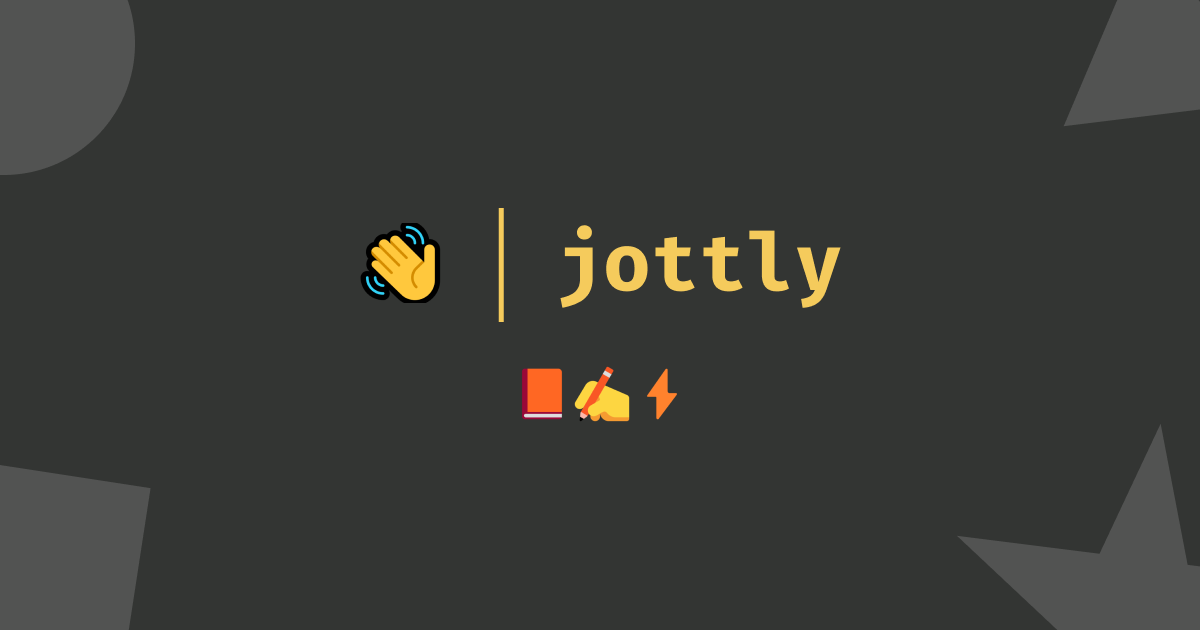
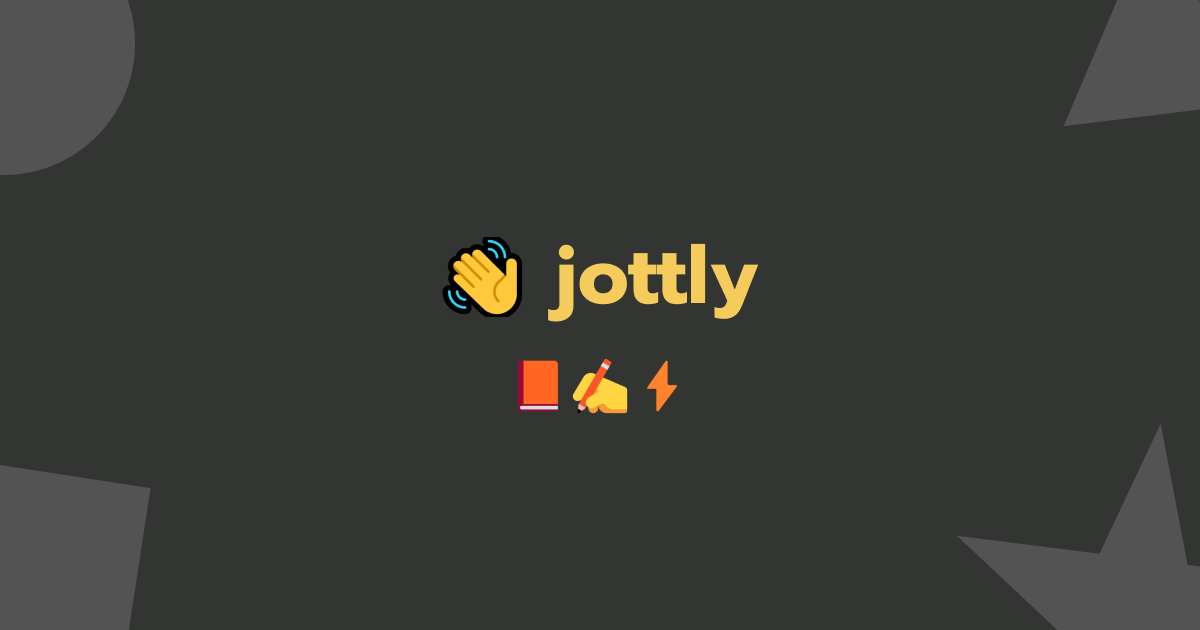
small fixes

Changed region(s): [[0.2775, 0.3317, 0.7092, 0.5127], [0.4317, 0.573, 0.5858, 0.6937]]

diff --git a/src/app/user/logEdit.html b/src/app/user/logEdit.html
@@ -13,9 +13,15 @@
     <meta name="twitter:card" content="summary_large_image" />
     <meta name="twitter:image" content="/public/ogimg.png" />
     <link rel="shortcut icon" href="/public/favicon.ico" type="image/x-icon" />
+    <link rel="preconnect" href="https://fonts.googleapis.com" />
+    <link rel="preconnect" href="https://fonts.gstatic.com" crossorigin />
+    <link
+      href="https://fonts.googleapis.com/css2?family=Prompt:wght@400;500;600;700;800&display=swap"
+      rel="stylesheet"
+    />
     <link rel="stylesheet" href="../../css/global.css" />
     <link rel="stylesheet" href="../../css/newLog.css" />
-    <title>jottly : new note</title>
+    <title>jottly : update note</title>
   </head>
   <body>
     <header class="navbar">

diff --git a/src/app/signup.html b/src/app/signup.html
@@ -13,6 +13,13 @@
     <meta name="twitter:card" content="summary_large_image" />
     <meta name="twitter:image" content="/public/ogimg.png" />
     <link rel="shortcut icon" href="/public/favicon.ico" type="image/x-icon" />
+    <link rel="shortcut icon" href="/public/favicon.ico" type="image/x-icon" />
+    <link rel="preconnect" href="https://fonts.googleapis.com" />
+    <link rel="preconnect" href="https://fonts.gstatic.com" crossorigin />
+    <link
+      href="https://fonts.googleapis.com/css2?family=Prompt:wght@400;500;600;700;800&display=swap"
+      rel="stylesheet"
+    />
     <link rel="stylesheet" href="/css/global.css" />
     <link rel="stylesheet" href="/css/signup.css" />
     <title>jottly : signup</title>

diff --git a/src/app/login.html b/src/app/login.html
@@ -13,6 +13,13 @@
     <meta name="twitter:card" content="summary_large_image" />
     <meta name="twitter:image" content="/public/ogimg.png" />
     <link rel="shortcut icon" href="/public/favicon.ico" type="image/x-icon" />
+    <link rel="shortcut icon" href="/public/favicon.ico" type="image/x-icon" />
+    <link rel="preconnect" href="https://fonts.googleapis.com" />
+    <link rel="preconnect" href="https://fonts.gstatic.com" crossorigin />
+    <link
+      href="https://fonts.googleapis.com/css2?family=Prompt:wght@400;500;600;700;800&display=swap"
+      rel="stylesheet"
+    />
     <link rel="stylesheet" href="/css/global.css" />
     <link rel="stylesheet" href="/css/login.css" />
 

diff --git a/src/app/not_found.html b/src/app/not_found.html
@@ -4,6 +4,13 @@
     <meta charset="UTF-8" />
     <meta http-equiv="X-UA-Compatible" content="IE=edge" />
     <meta name="viewport" content="width=device-width, initial-scale=1.0" />
+    <link rel="shortcut icon" href="/public/favicon.ico" type="image/x-icon" />
+    <link rel="preconnect" href="https://fonts.googleapis.com" />
+    <link rel="preconnect" href="https://fonts.gstatic.com" crossorigin />
+    <link
+      href="https://fonts.googleapis.com/css2?family=Prompt:wght@400;500;600;700;800&display=swap"
+      rel="stylesheet"
+    />
     <link rel="stylesheet" href="/css/global.css" />
     <link rel="stylesheet" href="/css/not_found.css" />
     <title>jottly : login</title>

diff --git a/src/app/user/newLog.html b/src/app/user/newLog.html
@@ -13,6 +13,12 @@
     <meta name="twitter:card" content="summary_large_image" />
     <meta name="twitter:image" content="/public/ogimg.png" />
     <link rel="shortcut icon" href="/public/favicon.ico" type="image/x-icon" />
+    <link rel="preconnect" href="https://fonts.googleapis.com" />
+    <link rel="preconnect" href="https://fonts.gstatic.com" crossorigin />
+    <link
+      href="https://fonts.googleapis.com/css2?family=Prompt:wght@400;500;600;700;800&display=swap"
+      rel="stylesheet"
+    />
     <link rel="stylesheet" href="../../css/global.css" />
     <link rel="stylesheet" href="../../css/newLog.css" />
     <title>jottly : new note</title>

diff --git a/src/app/user/settings.html b/src/app/user/settings.html
@@ -13,6 +13,12 @@
     <meta name="twitter:card" content="summary_large_image" />
     <meta name="twitter:image" content="/public/ogimg.png" />
     <link rel="shortcut icon" href="/public/favicon.ico" type="image/x-icon" />
+    <link rel="preconnect" href="https://fonts.googleapis.com" />
+    <link rel="preconnect" href="https://fonts.gstatic.com" crossorigin />
+    <link
+      href="https://fonts.googleapis.com/css2?family=Prompt:wght@400;500;600;700;800&display=swap"
+      rel="stylesheet"
+    />
     <link rel="stylesheet" href="../css/global.css" />
     <link rel="stylesheet" href="../css/settings.css" />
     <title>jottly : settings</title>

diff --git a/src/app/user/log.html b/src/app/user/log.html
@@ -13,6 +13,12 @@
     <meta name="twitter:card" content="summary_large_image" />
     <meta name="twitter:image" content="/public/ogimg.png" />
     <link rel="shortcut icon" href="/public/favicon.ico" type="image/x-icon" />
+    <link rel="preconnect" href="https://fonts.googleapis.com" />
+    <link rel="preconnect" href="https://fonts.gstatic.com" crossorigin />
+    <link
+      href="https://fonts.googleapis.com/css2?family=Prompt:wght@400;500;600;700;800&display=swap"
+      rel="stylesheet"
+    />
     <link rel="stylesheet" href="../../css/global.css" />
     <link rel="stylesheet" href="../../css/log.css" />
     <title>jottly : log</title>

diff --git a/src/app/index.html b/src/app/index.html
@@ -13,6 +13,12 @@
     <meta name="twitter:card" content="summary_large_image" />
     <meta name="twitter:image" content="/public/ogimg.png" />
     <link rel="shortcut icon" href="/public/favicon.ico" type="image/x-icon" />
+    <link rel="preconnect" href="https://fonts.googleapis.com" />
+    <link rel="preconnect" href="https://fonts.gstatic.com" crossorigin />
+    <link
+      href="https://fonts.googleapis.com/css2?family=Prompt:wght@400;500;600;700;800&display=swap"
+      rel="stylesheet"
+    />
     <link rel="stylesheet" href="/css/global.css" />
     <title>jottly</title>
   </head>

diff --git a/src/app/user/home.html b/src/app/user/home.html
@@ -20,6 +20,12 @@
       crossorigin="anonymous"
       referrerpolicy="no-referrer"
     />
+    <link rel="preconnect" href="https://fonts.googleapis.com" />
+    <link rel="preconnect" href="https://fonts.gstatic.com" crossorigin />
+    <link
+      href="https://fonts.googleapis.com/css2?family=Prompt:wght@400;500;600;700;800&display=swap"
+      rel="stylesheet"
+    />
     <link rel="stylesheet" href="../css/global.css" />
     <link rel="stylesheet" href="../css/home.css" />
     <title>jottly : dashboard</title>

diff --git a/src/app/user/allLogs.html b/src/app/user/allLogs.html
@@ -20,6 +20,12 @@
       crossorigin="anonymous"
       referrerpolicy="no-referrer"
     />
+    <link rel="preconnect" href="https://fonts.googleapis.com" />
+    <link rel="preconnect" href="https://fonts.gstatic.com" crossorigin />
+    <link
+      href="https://fonts.googleapis.com/css2?family=Prompt:wght@400;500;600;700;800&display=swap"
+      rel="stylesheet"
+    />
     <link rel="stylesheet" href="../css/global.css" />
     <link rel="stylesheet" href="../css/home.css" />
     <title>jottly : all logs</title>

diff --git a/src/app/css/global.css b/src/app/css/global.css
@@ -1,4 +1,3 @@
-@import url("https://fonts.googleapis.com/css2?family=Prompt:wght@400;500;600;700;800&display=swap");
 * {
   padding: 0;
   margin: 0;
